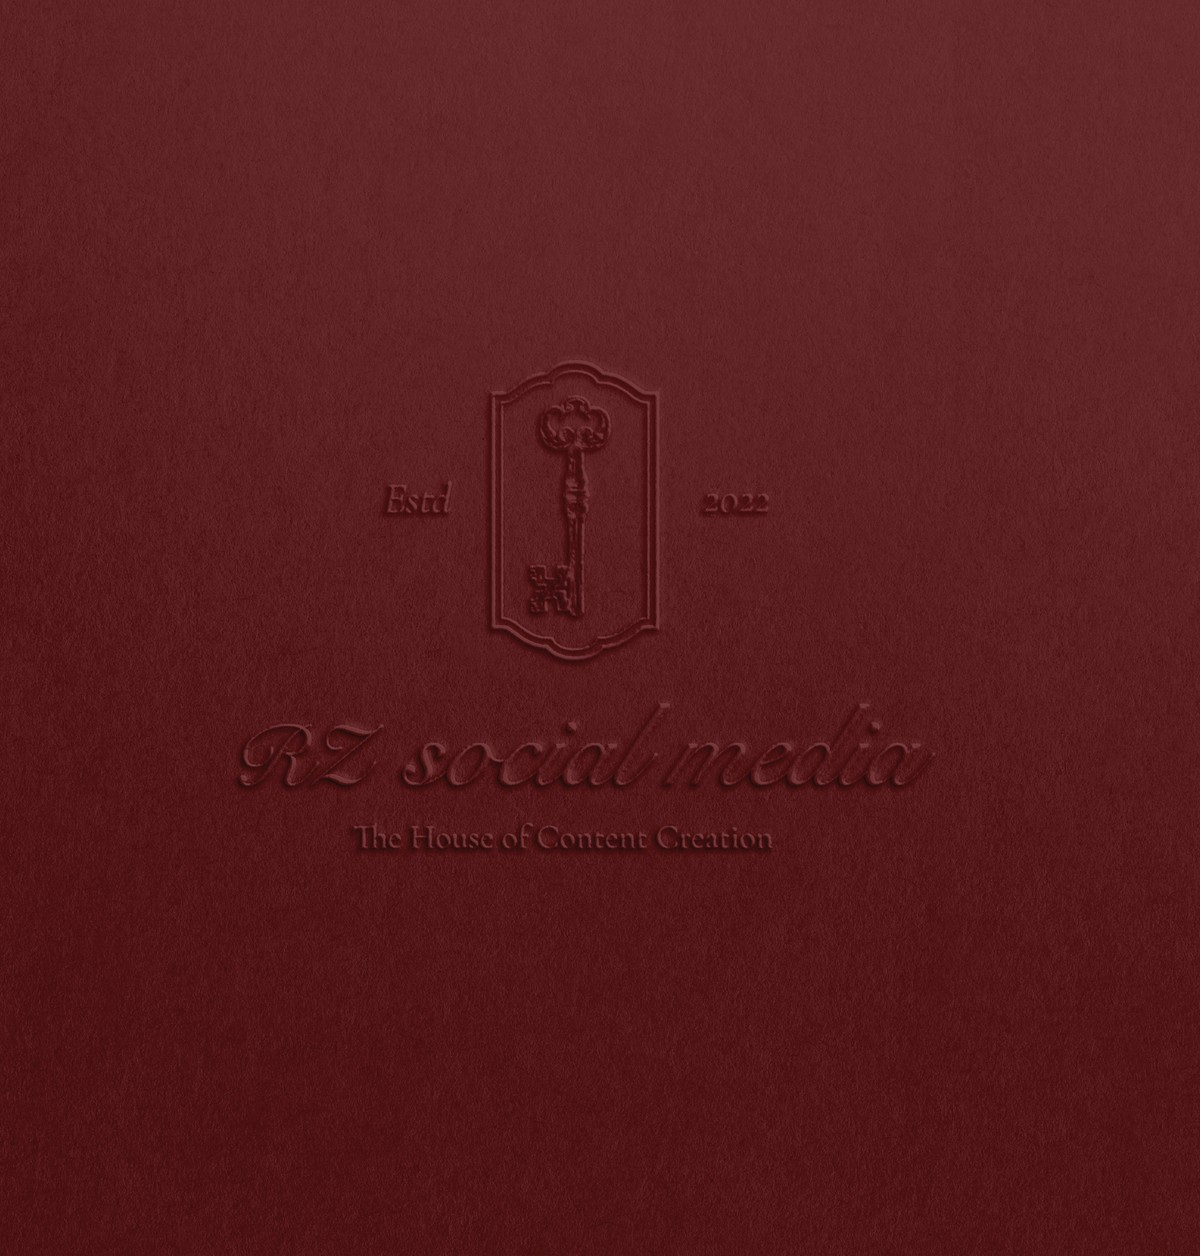
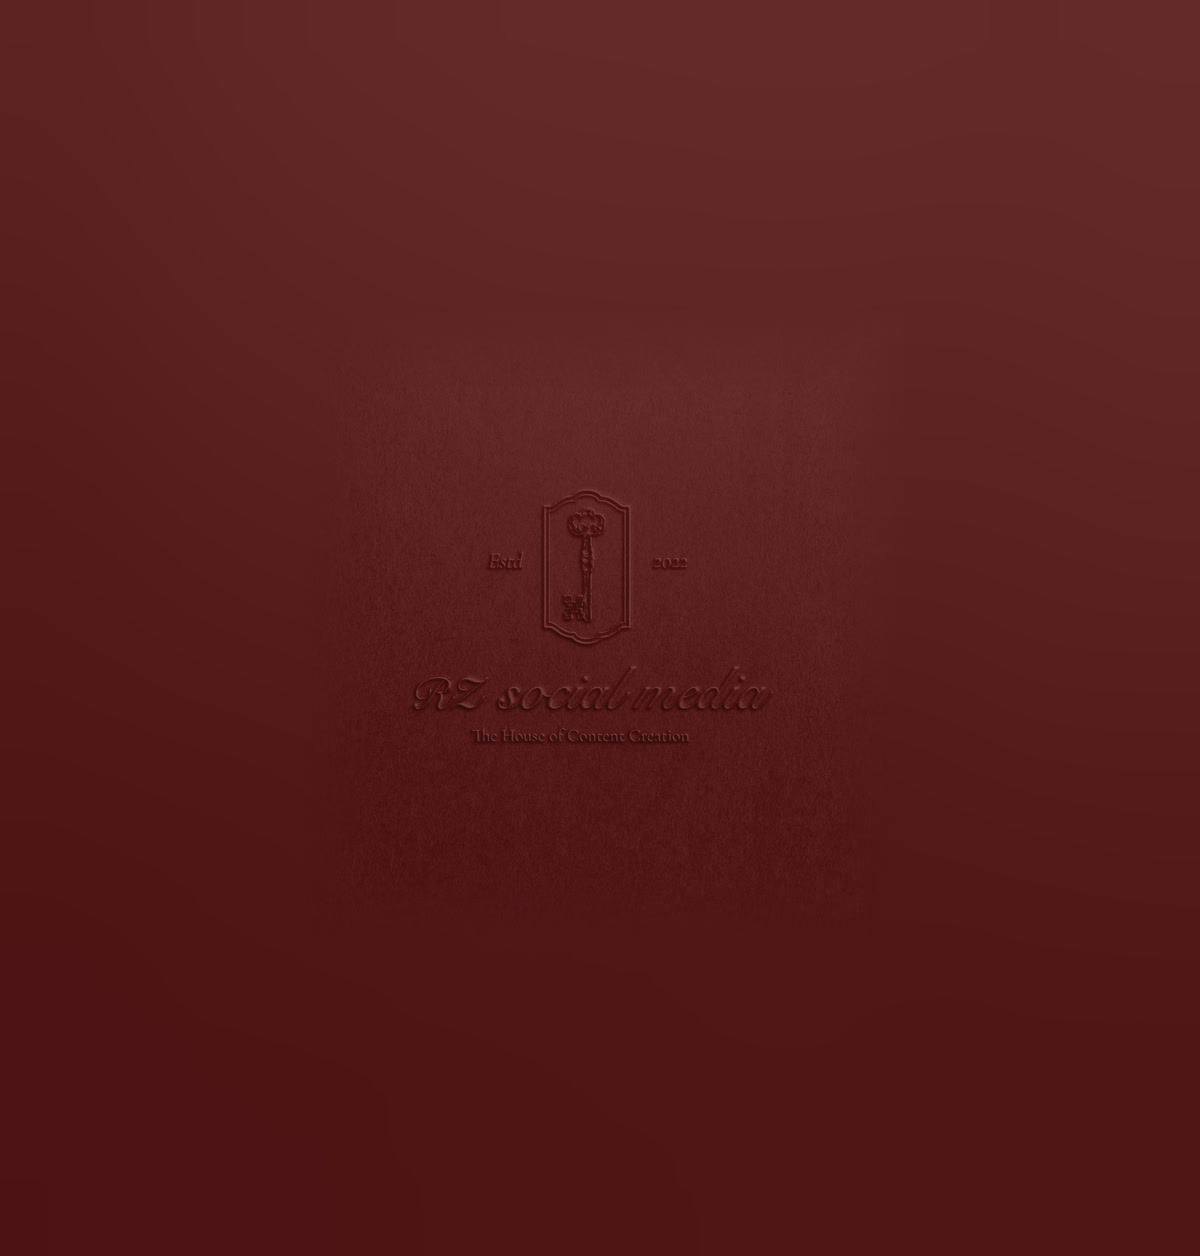
og: 50% smaller emboss (feathered, seamless); hero-track brown bg to match About

diff --git a/index.html b/index.html
@@ -23,8 +23,8 @@
     <link rel="preconnect" href="https://fonts.googleapis.com" />
     <link rel="preconnect" href="https://fonts.gstatic.com" crossorigin />
     <link href="https://fonts.googleapis.com/css2?family=Assistant:wght@200;300;400;500;600;700&family=Cormorant+Garamond:ital,wght@0,400;0,500;0,600;1,300;1,400;1,500;1,600&family=Pinyon+Script&display=swap" rel="stylesheet" />
-    <script type="module" crossorigin src="./assets/index-CU3CAcpA.js"></script>
-    <link rel="stylesheet" crossorigin href="./assets/index-DyEBzMFj.css">
+    <script type="module" crossorigin src="./assets/index-Dfn9Zyb7.js"></script>
+    <link rel="stylesheet" crossorigin href="./assets/index-BgBsBg0V.css">
   </head>
   <body>
     <div id="root"></div>

diff --git a/assets/index-BgBsBg0V.css b/assets/index-BgBsBg0V.css
@@ -1,0 +1,1 @@
+:root{--white:#fffbf8;--beige:#ccc2b8;--brown:#372b1e;--burgundy:#62171a;--burgundy-deep:#4e1215;--bg:var(--white);--ink:var(--brown);--rule:#372b1e2e;--rule-soft:#372b1e1a;--serif:"Cormorant Garamond",serif;--script:"Pinyon Script",cursive;--sans:"Assistant","Cormorant Garamond",sans-serif}*{box-sizing:border-box;margin:0;padding:0}html{scroll-behavior:smooth}body{font-family:var(--sans);background:var(--bg);color:var(--ink);-webkit-font-smoothing:antialiased;font-weight:300;line-height:1.85;overflow-x:hidden}.serif{font-family:var(--serif)}.script{font-family:var(--script)}::selection{background:var(--burgundy);color:var(--white)}img{display:block}.ornament{justify-content:center;align-items:center;gap:14px;margin:14px auto 0;display:flex}.ornament:before,.ornament:after{content:"";background:var(--burgundy);opacity:.5;width:46px;height:1px}.ornament i{background:var(--burgundy);opacity:.7;width:5px;height:5px;transform:rotate(45deg)}.eyebrow{font-family:var(--serif);letter-spacing:.06em;color:var(--burgundy);opacity:.9;margin-bottom:10px;font-size:1rem;font-style:italic}section{padding:11vw 6vw;position:relative}nav{z-index:100;justify-content:flex-end;align-items:center;padding:18px 6vw;transition:background .4s,padding .4s,box-shadow .4s;display:flex;position:fixed;top:0;left:0;right:0}nav.scrolled{box-shadow:0 1px 0 var(--rule-soft);background:#fffbf8f5;padding:12px 6vw}nav ul{gap:30px;list-style:none;display:flex}nav ul a{color:var(--ink);font-family:var(--serif);letter-spacing:3px;text-transform:uppercase;opacity:.7;padding-bottom:4px;font-size:.95rem;text-decoration:none;transition:opacity .3s;position:relative}nav ul a:hover,nav ul a.active{opacity:1}nav ul a:after{content:"";background:var(--burgundy);width:0;height:1px;transition:width .35s;position:absolute;bottom:0;right:0}nav ul a:hover:after,nav ul a.active:after{width:100%}.nav-toggle{color:var(--burgundy);cursor:pointer;z-index:101;background:0 0;border:none;font-size:1.5rem;display:none;position:relative}.nav-toggle.open{color:var(--white)}.hero-track{background:var(--brown);height:300vh;padding:0;position:relative}.hero-sticky{background:var(--brown);height:100svh;position:sticky;top:0;overflow:hidden}.hero-video{object-fit:cover;will-change:transform;background:var(--brown);width:100%;height:100%;position:absolute;inset:0;transform:translateZ(0)}.hero-overlay{pointer-events:none;background:linear-gradient(#1e0e0a80,#1e0e0a1f 35%,#1e0e0a2e 62%,#1e0e0aa8);position:absolute;inset:0}.hero-copy{text-align:center;color:var(--white);place-items:center;padding:0 8vw;display:grid;position:absolute;inset:0}.hero-block{opacity:0;will-change:opacity,transform;grid-area:1/1;max-width:92vw}.hero-block .wm{filter:drop-shadow(0 8px 40px #[phone redacted]);width:min(440px,78vw);margin:0 auto}.hero-block h1{font-family:var(--serif);letter-spacing:.06em;text-shadow:0 6px 50px #[phone redacted];margin:0;font-size:clamp(3rem,13vw,8rem);font-weight:500;line-height:.95}.hero-block .tag{font-family:var(--serif);letter-spacing:.04em;opacity:.92;margin-top:18px;font-size:clamp(1rem,3.6vw,1.4rem);font-style:italic}.hero-block .year{font-family:var(--serif);letter-spacing:.1em;font-size:clamp(2.2rem,9vw,3.2rem)}.hero-block .valid{max-width:440px;font-family:var(--sans);opacity:.85;margin:16px auto 0;font-size:.84rem;font-weight:300;line-height:1.7}.hero-loader{z-index:6;background:var(--brown);flex-direction:column;justify-content:center;align-items:center;gap:22px;transition:opacity .9s;display:flex;position:absolute;inset:0}.hero-loader.done{opacity:0;pointer-events:none}.hero-loader .lk{aspect-ratio:559/1000;opacity:.92;width:58px}.hero-loader .bar{background:#f2ece333;width:170px;height:2px;overflow:hidden}.hero-loader .bar span{background:var(--beige);height:100%;transition:width .25s;display:block}.hero-loader .pct{font-family:var(--serif);letter-spacing:3px;color:#f2ece3b3;font-size:.78rem}.hero-scroll-cue{color:var(--white);font-family:var(--serif);letter-spacing:4px;opacity:.6;text-transform:uppercase;z-index:2;font-size:.72rem;position:absolute;bottom:26px;left:50%;transform:translate(-50%)}.hero-scroll-cue:after{content:"";background:var(--white);width:1px;height:34px;margin:10px auto 0;animation:1.8s ease-in-out infinite cue;display:block}@keyframes cue{0%,to{opacity:.2;transform:scaleY(.4)}50%{opacity:.8;transform:scaleY(1)}}.about{background:var(--brown);color:var(--white);overflow:hidden}.about .grid{grid-template-columns:1fr 1fr;align-items:center;gap:6vw;max-width:1180px;margin:0 auto;display:grid}.about h2{font-family:var(--serif);letter-spacing:.04em;color:var(--white);margin-bottom:8px;font-size:clamp(2.8rem,7vw,5rem);font-weight:500}.about p{color:#ece0da;margin-bottom:18px;font-size:1.04rem;font-weight:300}.about p b{color:#fff;font-weight:600}.about .img{aspect-ratio:4/5;background:var(--burgundy-deep);border-radius:3px;overflow:hidden;box-shadow:0 28px 50px -24px #000000b3,0 60px 90px -40px #000000d9,0 110px 150px -70px #000000b3}.about .img img{object-fit:cover;object-position:top center;width:100%;height:100%}.services{background:#f4efe9}.services .grid{grid-template-columns:1fr 1.1fr;align-items:center;gap:6vw;max-width:1180px;margin:0 auto;display:grid}.services .img{aspect-ratio:3/4;background:var(--beige);border-radius:3px;overflow:hidden;box-shadow:0 28px 50px -26px #372b1e80,0 60px 90px -42px #372b1e73,0 110px 150px -75px #372b1e66}.services .img img{object-fit:cover;width:100%;height:100%}.services h2{font-family:var(--serif);letter-spacing:.04em;font-size:clamp(2.4rem,6vw,4.4rem);font-weight:500}.services h3{color:var(--burgundy);font-family:var(--sans);margin:12px 0 24px;font-size:1.4rem;font-weight:600}.services p{margin-bottom:16px;font-weight:300}.services .mark{color:var(--burgundy);border-bottom:1px solid var(--burgundy);font-weight:500}.note{opacity:.6;margin-top:22px;font-size:.8rem;font-weight:300;line-height:1.7}.band{background:#f4efe9;height:64vh;min-height:460px;max-height:760px;padding:0;position:relative;overflow:hidden}.band .bg{object-fit:cover;object-position:center;width:100%;height:100%;position:absolute;inset:0}.band .cap{pointer-events:none;background:linear-gradient(#1e0e0a26,#1e0e0a00 30% 70%,#1e0e0a4d);position:absolute;inset:0}.band-controls{z-index:3;gap:10px;display:flex;position:absolute;bottom:18px;left:18px}.band-controls button{-webkit-backdrop-filter:blur(5px);backdrop-filter:blur(5px);width:44px;height:44px;color:var(--white);cursor:pointer;background:#1e0e0a66;border:1px solid #f2ece380;border-radius:50%;place-items:center;transition:all .3s;display:grid}.band-controls button:hover{border-color:var(--white);background:#1e0e0ab3}.band-controls svg{fill:none;stroke:currentColor;stroke-width:1.6px;stroke-linecap:round;stroke-linejoin:round;width:19px;height:19px}.price{background:var(--white)}.price-head{text-align:center;margin-bottom:64px}.price-head .crest{opacity:.92;width:58px;margin:0 auto 18px}.price-head h2{font-family:var(--serif);letter-spacing:.12em;color:var(--ink);font-size:clamp(2.6rem,7vw,4.8rem);font-weight:500}.cards{grid-template-columns:repeat(3,1fr);align-items:stretch;gap:30px;max-width:1140px;margin:0 auto;display:grid}.card{background:var(--white);border:1px solid var(--burgundy);cursor:pointer;flex-direction:column;padding:46px 34px 38px;transition:transform .5s cubic-bezier(.2,.8,.2,1),box-shadow .5s,background .5s;display:flex;position:relative}.card:after{content:"";border:1px solid var(--burgundy);opacity:.28;pointer-events:none;transition:border-color .5s,opacity .5s;position:absolute;inset:7px}.card:hover{transform:translateY(-8px);box-shadow:0 44px 80px -50px #62171a80}.card.selected{box-shadow:0 0 0 2px var(--burgundy),0 44px 80px -50px #62171a80;transform:translateY(-8px)}.card .crest{opacity:.9;width:34px;margin:0 auto 14px}.card .pkg-en{font-family:var(--serif);letter-spacing:.06em;text-transform:uppercase;color:var(--burgundy);text-align:center;margin-bottom:2px;font-size:1.9rem}.card .amount{justify-content:center;align-items:baseline;gap:12px;margin:14px 0 6px;display:flex}.card .amount .orig{font-family:var(--sans);color:#372b1e6b;font-size:1.2rem;font-weight:400;text-decoration:line-through;text-decoration-thickness:1px}.card .amount .now{font-family:var(--sans);color:var(--burgundy);letter-spacing:.01em;font-size:2.3rem;font-weight:700;line-height:1}.card .amount .now small{margin-inline-end:5px;font-size:1.05rem;font-weight:600}.card ul{width:100%;margin:18px 0 26px;list-style:none}.card li{font-family:var(--sans);text-align:center;border-top:1px solid var(--rule-soft);color:var(--ink);padding:9px 0;font-size:.95rem;font-weight:300;line-height:1.7}.card li:first-child{border-top:none}.card li b{font-weight:600}.card .choose{text-align:center;border:1px solid var(--burgundy);cursor:pointer;width:100%;font-family:var(--sans);letter-spacing:.04em;color:var(--burgundy);background:0 0;margin-top:auto;padding:14px;font-size:.95rem;font-weight:500;transition:all .3s;display:block}.card .choose:hover{background:var(--burgundy);color:var(--white)}@media (width<=980px){.cards{grid-template-columns:1fr;max-width:440px}.card.featured,.card{transform:none}.card.featured:hover,.card:hover{transform:translateY(-6px)}}.notes{border:1px solid var(--rule);background:#f4efe9;max-width:780px;margin:54px auto 0;padding:6px 0}.notes-title{font-family:var(--sans);letter-spacing:.02em;color:var(--burgundy);padding:18px 26px 0;font-size:1.1rem;font-weight:600}.notes ul{padding:14px 26px 22px;list-style:none}.notes li{opacity:.85;border-top:1px solid var(--rule-soft);padding:7px 0;font-size:.86rem;font-weight:300}.gallery{background:var(--brown);color:var(--white)}.gallery .ghead{text-align:center;margin-bottom:54px}.gallery .ghead .eyebrow{color:#dcae9f}.gallery .ghead h2{font-family:var(--serif);letter-spacing:.12em;color:var(--white);font-size:clamp(2.6rem,7vw,4.8rem);font-weight:500}.gallery .ornament:before,.gallery .ornament:after{background:var(--beige);opacity:.6}.gallery .ornament i{background:var(--beige);opacity:.8}.gallery .filters{direction:ltr;flex-wrap:wrap;justify-content:center;gap:10px;margin-top:24px;display:flex}.gallery .filters button{font-family:var(--serif);letter-spacing:2px;text-transform:uppercase;color:var(--white);cursor:pointer;opacity:.8;background:0 0;border:1px solid #f2ece359;border-radius:30px;padding:8px 24px;font-size:.95rem;transition:all .3s}.gallery .filters button:hover{opacity:1;border-color:var(--beige)}.gallery .filters button.active{background:var(--beige);color:var(--brown);border-color:var(--beige);opacity:1}.collage{column-count:3;direction:ltr;column-gap:18px;max-width:1140px;margin:46px auto 0}.collage figure{break-inside:avoid;cursor:pointer;border-radius:2px;margin:0 0 18px;position:relative;overflow:hidden;box-shadow:0 34px 64px -42px #000c}.collage img,.collage video{object-fit:cover;width:100%;height:100%;transition:transform 1.1s cubic-bezier(.2,.8,.2,1);display:block}.collage figure:hover img,.collage figure:hover video{transform:scale(1.05)}.lightbox{z-index:300;opacity:0;cursor:zoom-out;background:#140907ed;justify-content:center;align-items:center;padding:4vh 4vw;animation:.3s forwards lbin;display:flex;position:fixed;inset:0}@keyframes lbin{to{opacity:1}}.lightbox img{cursor:default;border-radius:2px;width:auto;max-width:92vw;height:auto;max-height:92vh;box-shadow:0 50px 120px -30px #000000d9}.lightbox video{aspect-ratio:9/16;object-fit:cover;cursor:default;background:#1a0c10;border-radius:2px;width:auto;max-width:92vw;height:92vh;max-height:92vh;box-shadow:0 50px 120px -30px #000000d9}.lb-close{z-index:301;color:var(--white);cursor:pointer;opacity:.8;background:0 0;border:none;font-size:1.8rem;line-height:1;transition:opacity .3s;position:fixed;top:20px;right:26px}.lb-close:hover{opacity:1}@media (width<=900px){.collage{column-count:3;column-gap:14px}}@media (width<=600px){.collage{column-count:2;column-gap:12px;max-width:560px}.collage figure{margin-bottom:12px}}.collage.reels-grid{column-count:initial;grid-template-columns:repeat(3,1fr);align-items:start;gap:18px;display:grid}.collage.reels-grid figure{margin:0}@media (width<=600px){.collage.reels-grid{grid-template-columns:repeat(2,1fr);gap:12px}}.reviews{background:var(--beige)}.reviews .price-head{margin-bottom:46px}.reviews h2{font-family:var(--serif);letter-spacing:.12em;text-align:center;font-size:clamp(2.6rem,7vw,4.8rem);font-weight:500}.chat{flex-direction:column;gap:16px;max-width:620px;margin:0 auto;display:flex}.bubble{max-width:80%;font-family:var(--sans);opacity:0;border-radius:18px;padding:15px 20px;font-size:.94rem;font-weight:300;line-height:1.6;transition:opacity .5s,transform .5s cubic-bezier(.2,.8,.2,1);position:relative;transform:translateY(20px)scale(.96);box-shadow:0 10px 24px -16px #372b1e73}.bubble.show{opacity:1;transform:none}.bubble .time{opacity:.55;margin-top:6px;font-size:.62rem;display:block}.bubble.them{background:var(--brown);color:#efe6df;border-bottom-right-radius:5px;align-self:flex-start}.bubble.me{background:var(--burgundy);color:var(--white);border-bottom-left-radius:5px;align-self:flex-end}.closing{text-align:center;max-width:780px;margin:64px auto 0}.closing p{font-family:var(--sans);color:var(--burgundy);letter-spacing:.01em;font-size:clamp(1.2rem,2.6vw,1.7rem);font-weight:300;line-height:1.85}.flatlay{border-radius:2px;max-width:1000px;height:360px;margin:54px auto 0;overflow:hidden;box-shadow:0 40px 70px -45px #372b1e99}.flatlay img{object-fit:cover;object-position:center 58%;width:100%;height:100%;transition:transform 1.2s}.flatlay:hover img{transform:scale(1.04)}.contact{background:var(--beige);color:var(--ink);position:relative;overflow:hidden}.contact-bg{z-index:0;background-position:50%;background-size:cover;position:absolute;inset:0}.contact .grid{z-index:1;grid-template-columns:1fr 1fr;align-items:center;gap:6vw;max-width:1080px;margin:0 auto;display:grid;position:relative}.contact .panel{-webkit-backdrop-filter:blur(7px);backdrop-filter:blur(7px);border:1px solid var(--rule);background:#fffbf8c7;padding:48px 42px;position:relative}.contact .panel:after{content:"";border:1px solid var(--rule-soft);pointer-events:none;position:absolute;inset:7px}.contact h2{font-family:var(--sans);color:var(--burgundy);margin-bottom:8px;font-size:clamp(2.2rem,5.5vw,3.4rem);font-weight:600}.contact .lead{opacity:.8;margin-bottom:26px;font-weight:300}.field{margin-bottom:16px}.field label{font-family:var(--sans);letter-spacing:.02em;opacity:.7;margin-bottom:6px;font-size:.85rem;font-weight:400;display:block}.field input,.field textarea,.field select{border:1px solid var(--rule);width:100%;color:var(--ink);font-family:var(--sans);background:#fffbf8b3;border-radius:2px;padding:12px 14px;font-size:.95rem;transition:border-color .3s}.field input::placeholder,.field textarea::placeholder{color:#372b1e66}.field input:focus,.field textarea:focus,.field select:focus{border-color:var(--burgundy);outline:none}.field select option{color:#222}.actions{flex-wrap:wrap;gap:12px;margin-top:10px;display:flex}.btn{text-align:center;min-width:150px;font-family:var(--sans);letter-spacing:.04em;cursor:pointer;border:1px solid var(--burgundy);border-radius:2px;flex:1;padding:15px;font-size:.98rem;font-weight:500;text-decoration:none;transition:all .3s}.btn.primary{background:var(--burgundy);color:var(--white)}.btn.primary:hover{color:var(--burgundy);background:0 0}.contact-rows a{color:var(--ink);border-top:1px solid var(--rule);justify-content:space-between;align-items:center;padding:14px 0;font-weight:300;text-decoration:none;transition:opacity .3s;display:flex}.contact-rows a:hover{opacity:.65}.contact-rows a .lbl{font-family:var(--serif);letter-spacing:.03em;opacity:.55;font-size:.95rem;font-style:italic}footer{background:var(--brown);color:#f2ece399;text-align:center;padding:34px 26px}footer img{opacity:.95;width:200px;margin:0 auto 12px}footer div{font-family:var(--serif);letter-spacing:2px;font-size:.8rem}.reveal{opacity:0;transition:opacity 1s,transform 1s cubic-bezier(.2,.8,.2,1);transform:translateY(38px)}.reveal.in{opacity:1;transform:none}.reveal.d1{transition-delay:.12s}.reveal.d2{transition-delay:.24s}.reveal.d3{transition-delay:.36s}#toast{background:var(--brown);color:var(--white);font-family:var(--sans);z-index:200;border-radius:2px;max-width:90vw;padding:14px 22px;font-size:.9rem;transition:transform .45s cubic-bezier(.2,.8,.2,1);position:fixed;bottom:24px;left:50%;transform:translate(-50%)translateY(120px);box-shadow:0 20px 40px -20px #[phone redacted]}#toast.show{transform:translate(-50%)translateY(0)}@media (width<=820px){nav ul{background:var(--burgundy);text-align:center;flex-direction:column-reverse;justify-content:center;align-items:center;gap:34px;padding:0;transition:transform .4s;position:fixed;inset:0;transform:translate(100%)}nav ul.open{transform:none}nav ul a{color:var(--white);opacity:.9;font-size:1.05rem}.nav-toggle{display:block}.about .grid,.services .grid,.contact .grid{grid-template-columns:1fr}.about .img,.services .img{display:none}.bubble{max-width:90%}}